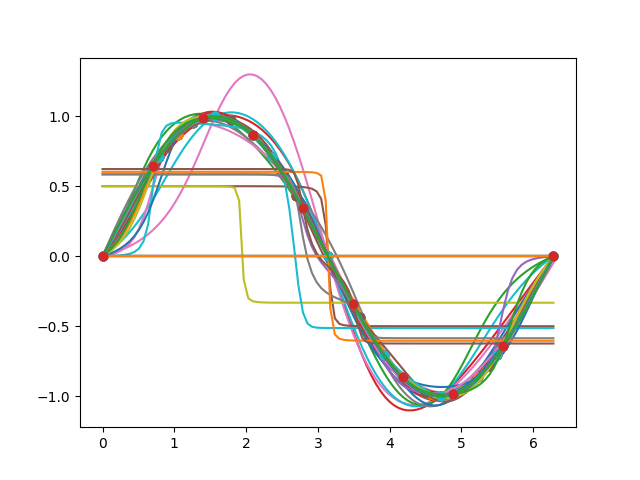
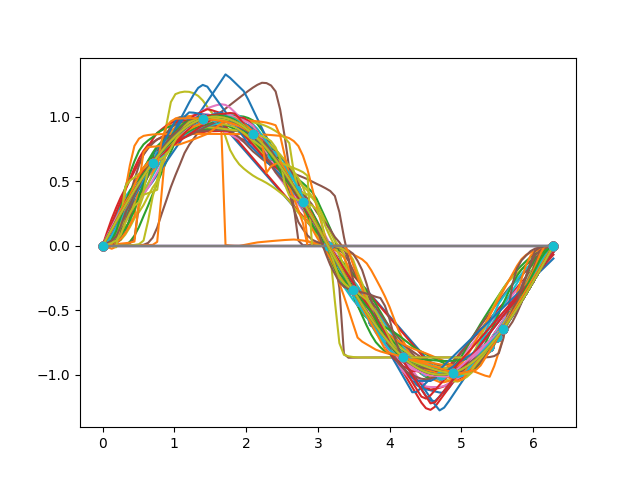
Added batch norm and different activations to sine wave loss experiment

diff --git a/exp_kf_nngp/kernel_flow_loss_sine_wave_torch.py b/exp_kf_nngp/kernel_flow_loss_sine_wave_torch.py
@@ -7,10 +7,15 @@ import torch
 from torch import nn
 from torch.utils.data import Dataset, DataLoader
 import random 
+import absl.app
+
 sys.path.insert(0, os.getcwd() + '/.')
 from KernelFlow import KernelFlowsNP
 
+FLAGS = absl.app.flags.FLAGS
+
 def train_network(model, dataloader, epochs, learning_rate, val_set = False):
+    model.train()
     optimizer =  torch.optim.Adam(model.parameters(), lr=learning_rate)
     criterion = nn.MSELoss()
     total_loss = []
@@ -65,13 +70,34 @@ class SineWave(Dataset):
     def __len__(self):
         return self.n_samples
 
-def get_torch_nn(n=1):
+def get_torch_relu_nn(n=1):
+    layers = []
+    for _ in range(n):  # n_layers
+        layers += [
+        nn.Linear(32, 32),
+        nn.ReLU()
+        ]
+        if _%5 == 0 and FLAGS.batch_norm:
+            layers += [nn.BatchNorm1d(32)]
+
+    model = nn.Sequential(
+        nn.Linear(1, 32),
+        nn.ReLU(),
+        *layers,
+        nn.Linear(32, 1),
+    )
+    return model
+
+def get_torch_sigmoid_nn(n=1):
     layers = []
     for _ in range(n):  # n_layers
         layers += [
         nn.Linear(32, 32), 
         nn.Sigmoid()
         ]
+
+    if _%5 == 0 and FLAGS.batch_norm:
+        layers += [nn.BatchNorm1d(32)]
 
     model = nn.Sequential(
         nn.Linear(1, 32),
@@ -85,7 +111,7 @@ def get_mse_loss(pred, y):
     return 0.5* np.mean((pred-y)**2)
 
 def get_loss_from_nn(training_dataset_size_arr, depth_arr):
-    print("Evaluating Neural Networks...")
+    print("Evaluating Neural Networks with " + FLAGS.activation + " activation...")
     test_size = 100
     val_size = 10
 
@@ -111,15 +137,21 @@ def get_loss_from_nn(training_dataset_size_arr, depth_arr):
         train_dataloader = DataLoader(dataset=train_dataset, batch_size = int(training_size), shuffle=False)
         train_xs, train_ys = next(iter(train_dataloader))
 
-        for n in tqdm(depth_arr):#, 2, 3, 5, 10]):
+        for n in tqdm(depth_arr):
             network_depth = n
-            net = get_torch_nn(network_depth)
+            if FLAGS.activation == 'relu':
+                net = get_torch_relu_nn(network_depth)
+            elif FLAGS.activation == 'sigmoid':
+                net = get_torch_sigmoid_nn(network_depth)
+            else:
+                raise Exception("Please select relu or sigmoid as activation layers")
             learning_rate = 0.001
-            training_steps = 5000
+            training_steps = 10000
             train_network(model=net, dataloader=train_dataloader, 
                             epochs=training_steps, learning_rate=learning_rate, val_set=False)
 
             with torch.no_grad():
+                net.eval()
                 predict_nn = net(test_xs)
             ax.plot(test_xs, predict_nn)
             ax.plot(test_xs, test_ys)
@@ -157,19 +189,12 @@ def get_loss_from_kf_rbf(training_dataset_size_arr):
         KF_rbf = KernelFlowsNP(kernel_name, mu)
         iterations = 1000
         batch_size = training_size
-        X_train_perturbed_rbf = KF_rbf.fit(train_xs, train_ys, iterations, batch_size = batch_size, learning_rate=0.01, reg=0.0001)
+        X_train_perturbed_rbf = KF_rbf.fit(train_xs, train_ys, iterations, batch_size = batch_size, learning_rate=0.01, reg=0.0001, type_epsilon="usual")
         predict_kf_rbf = KF_rbf.predict(test_xs, regu=0.0001)
         batch_size_vs_loss[str(training_size)] = get_mse_loss(pred=predict_kf_rbf, y=test_ys)
     return batch_size_vs_loss
 
-if __name__ == "__main__":
-    training_dataset_size_arr = np.arange(5, 11, 1, dtype=int)
-    depth_arr = [0, 1, 2, 3, 5, 8, 11, 14]
-    depth_vs_test_loss_nn = get_loss_from_nn(training_dataset_size_arr, depth_arr)
-    batch_size_vs_loss_kf_rbf = get_loss_from_kf_rbf(training_dataset_size_arr)
-
-
-    # Plotting MSE vs Network Depth
+def plot_results(training_dataset_size_arr: np.ndarray, depth_arr:np.ndarray, depth_vs_test_loss_nn: dict, batch_size_vs_loss_kf_rbf: dict):
     graph_data = {}
     fig, ax = plt.subplots(1,1)
     for i, training_size in enumerate(training_dataset_size_arr):
@@ -177,26 +202,62 @@ if __name__ == "__main__":
         for key, value in depth_vs_test_loss_nn.items():
             graph_data[training_size] += [value[i]]
 
+    # Plotting MSE vs Network Depth
     for key, value in graph_data.items():
-        ax.plot(value, 'o-', label=f"""Number of Training points = {key}""")
-    x_tick_labels = ['Kernel Flow RBF'] +  ["Depth = " + str(x + 1) for x in depth_arr]
+        ax.semilogy(value, 'o-', label=f"""Number of Training points = {key}""")
+    x_tick_labels = ['Kernel Flow RBF'] +  ["NN Depth = " + str(x + 1) for x in depth_arr]
     ax.set_xticks(np.arange(len(x_tick_labels)))
     ax.set_xticklabels(x_tick_labels, rotation = 45)
     ax.set_xlabel("Architecture")
-    ax.set_ylabel("MSE Loss")
-    plt.legend()
+    ax.set_ylabel("MSE Loss - Log scale")
+    plt.legend(prop={'size': 6})
     plt.tight_layout()
-    fig.savefig("figs/sine_wave_training_mse_loss_vs_arch_sigmoid_torch.png")
+    fig.savefig("figs/sine_wave_training_mse_loss_vs_arch_" + FLAGS.activation +"_torch.png")
+
+def main(_):
+    training_dataset_size_arr = np.arange(5, 11, 1, dtype=int)
+    depth_arr = [0, 1, 2, 5, 10, 15, 20, 25, 30, 35]
+    depth_vs_test_loss_nn = get_loss_from_nn(training_dataset_size_arr, depth_arr)
+    batch_size_vs_loss_kf_rbf = get_loss_from_kf_rbf(training_dataset_size_arr)
+    plot_results(training_dataset_size_arr, depth_arr, depth_vs_test_loss_nn, batch_size_vs_loss_kf_rbf)
+
+if __name__ == "__main__":
+    f = absl.app.flags
+    f.DEFINE_string("activation", "relu",
+                    "which activation to choose")
+    f.DEFINE_bool("batch_norm", False,
+                "To apply batch normalization or not")
+    absl.app.run(main)
+
+
+    # Plotting MSE vs Network Depth
+    # graph_data = {}
+    # fig, ax = plt.subplots(1,1)
+    # for i, training_size in enumerate(training_dataset_size_arr):
+    #     graph_data[training_size] = [batch_size_vs_loss_kf_rbf[str(training_size)]]
+    #     for key, value in depth_vs_test_loss_nn.items():
+    #         graph_data[training_size] += [value[i]]
+
+    # for key, value in graph_data.items():
+    #     ax.plot(value, 'o-', label=f"""Number of Training points = {key}""")
+    # x_tick_labels = ['Kernel Flow RBF'] +  ["Depth = " + str(x + 1) for x in depth_arr]
+    # ax.set_xticks(np.arange(len(x_tick_labels)))
+    # ax.set_xticklabels(x_tick_labels, rotation = 45)
+    # ax.set_xlabel("Architecture")
+    # ax.set_ylabel("MSE Loss")
+    # plt.legend()
+    # plt.tight_layout()
+    # fig.savefig("figs/sine_wave_training_mse_loss_vs_arch_relu_torch.png")
 
 
     # Plotting MSE vs Training size
-    fig, ax = plt.subplots(1,1)
-    for key, value in depth_vs_test_loss_nn.items():
-        ax.plot(training_dataset_size_arr, depth_vs_test_loss_nn[key], 'o-', label=f""" NN Depth {str(key+1)}""")
+    # fig, ax = plt.subplots(1,1)
+    # for key, value in depth_vs_test_loss_nn.items():
+    #     ax.plot(training_dataset_size_arr, depth_vs_test_loss_nn[key], 'o-', label=f""" NN Depth {str(key+1)}""")
 
-    ax.plot(training_dataset_size_arr, batch_size_vs_loss_kf_rbf.values(), '*--', label='Kernel Flow - RBF')
-    ax.set_xlabel("Training data size")
-    ax.set_ylabel("MSE Loss")
-    plt.legend()
-    plt.tight_layout()
-    fig.savefig("figs/sine_wave_training_mse_loss_sigmoid_torch.png")
+    # ax.plot(training_dataset_size_arr, batch_size_vs_loss_kf_rbf.values(), '*--', label='Kernel Flow - RBF')
+    # ax.set_xlabel("Training data size")
+    # ax.set_ylabel("MSE Loss")
+    # plt.legend()
+    # plt.tight_layout()
+    # fig.savefig("figs/sine_wave_training_mse_loss_relu_torch.png")
